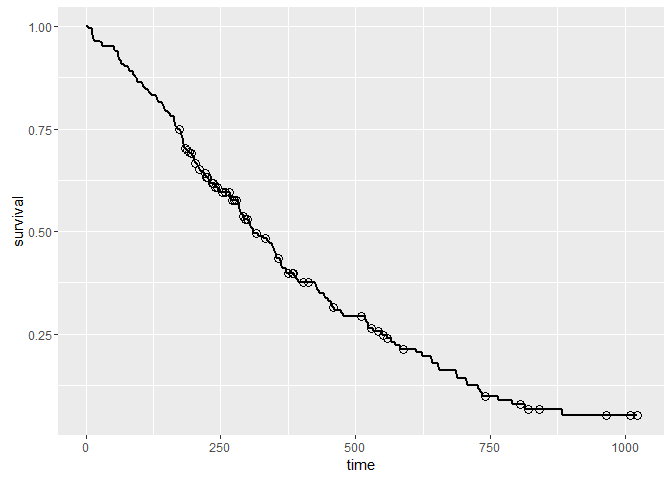
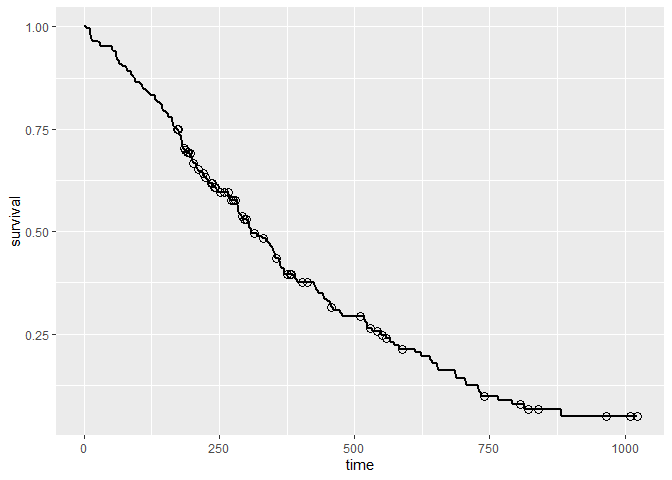
patch from tjebo, fix size for plotting of tick marks

diff --git a/README.md b/README.md
@@ -46,6 +46,14 @@ times
 
 ![](README_files/figure-markdown_strict/unnamed-chunk-2-2.png)
 
+    ggplot(lung, aes(time = time, status = status)) + geom_km() + geom_kmticks(shape = "|")
+
+![](README_files/figure-markdown_strict/unnamed-chunk-2-3.png)
+
+    ggplot(lung, aes(time = time, status = status)) + geom_km() + geom_kmticks(shape = "|", size = 5)
+
+![](README_files/figure-markdown_strict/unnamed-chunk-2-4.png)
+
 Adding confidence bands
 -----------------------
 
@@ -82,6 +90,10 @@ Tranformations
     ggplot(lung, aes(time = time, status = status, color = factor(sex))) + geom_km(trans = "cloglog") + 
       geom_kmticks(trans = "cloglog") + geom_kmband(trans = "cloglog") + ylab("Complementary Log-Log") + scale_x_log10()
 
+    ## Warning: Transformation introduced infinite values in continuous x-axis
+
+    ## Warning: Transformation introduced infinite values in continuous x-axis
+
 ![](README_files/figure-markdown_strict/unnamed-chunk-4-3.png)
 
 Acknowledgements
@@ -100,7 +112,7 @@ Copyright (c) 2016 Michael C Sachs
 
 Permission is hereby granted, free of charge, to any person obtaining a
 copy of this software and associated documentation files (the
-"Software"), to deal in the Software without restriction, including
+“Software”), to deal in the Software without restriction, including
 without limitation the rights to use, copy, modify, merge, publish,
 distribute, sublicense, and/or sell copies of the Software, and to
 permit persons to whom the Software is furnished to do so, subject to
@@ -109,7 +121,7 @@ the following conditions:
 The above copyright notice and this permission notice shall be included
 in all copies or substantial portions of the Software.
 
-THE SOFTWARE IS PROVIDED "AS IS", WITHOUT WARRANTY OF ANY KIND, EXPRESS
+THE SOFTWARE IS PROVIDED “AS IS”, WITHOUT WARRANTY OF ANY KIND, EXPRESS
 OR IMPLIED, INCLUDING BUT NOT LIMITED TO THE WARRANTIES OF
 MERCHANTABILITY, FITNESS FOR A PARTICULAR PURPOSE AND NONINFRINGEMENT.
 IN NO EVENT SHALL THE AUTHORS OR COPYRIGHT HOLDERS BE LIABLE FOR ANY
